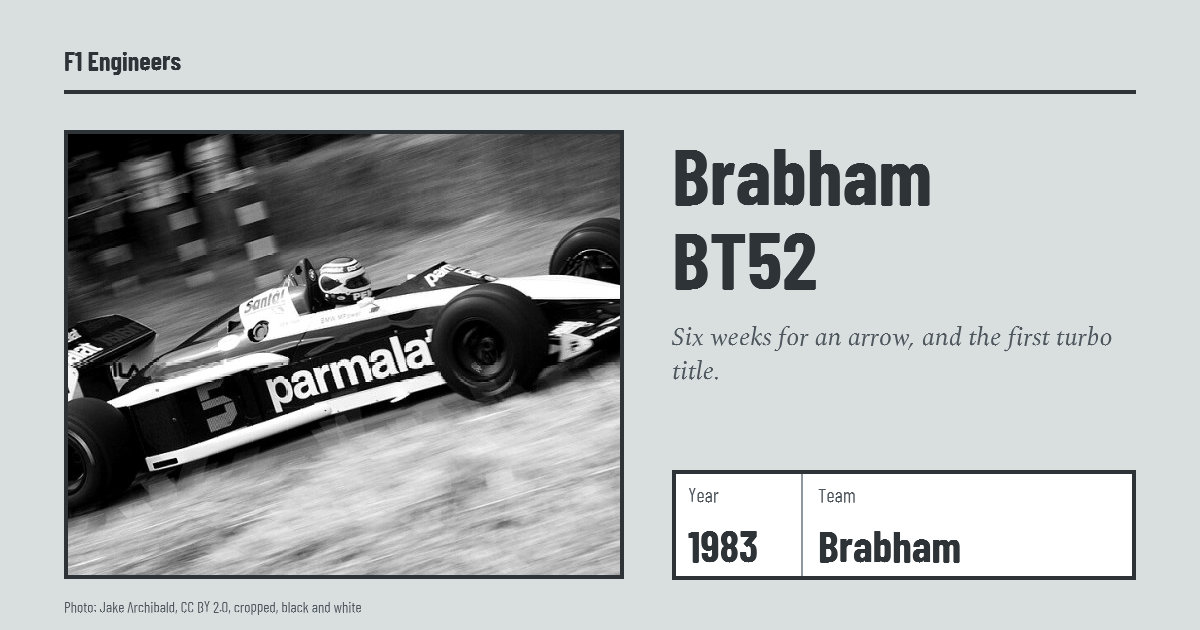
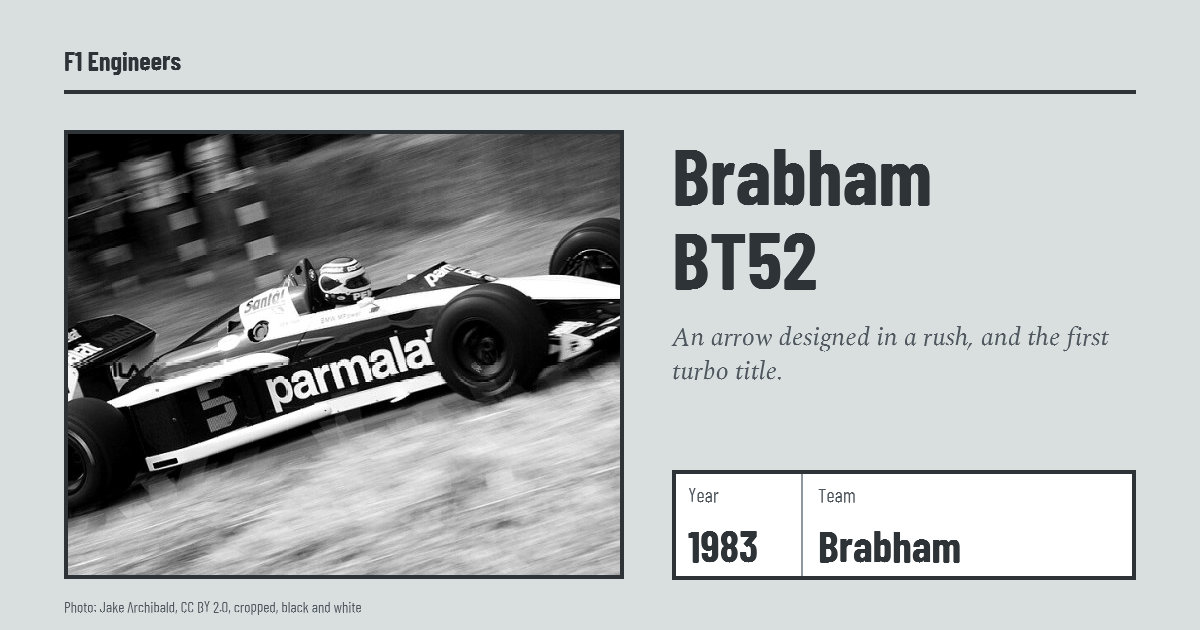
Deck : quatre categories de contexte mondial, PDF et cartes BT52 regeneres
build.js ne connaissait que 4 des 8 categories de la chronologie : npm run pdf
et pptx plantaient. Couleurs et formes reprises du site, repli gris sur une
categorie inconnue. pdf-recorder.js dessine pentagone, anneau, croix et
triangle inverse. Page 19 : 100 evenements de contexte au lieu de 60.

Changed region(s): [[0.555, 0.5127, 0.925, 0.6032]]

diff --git a/deck/build.js b/deck/build.js
@@ -740,7 +740,11 @@ const MARQUE = t("Ingénieurs de la F1", "F1 Engineers");
   const yHaut = 1.72, yBas = 6.2;
   // couleurs et formes du contexte : celles du site (assets/css/encyclopedie.css)
   const CTX = { reglement: ["8A5A00", pres.shapes.RECTANGLE], securite: ["7A3E9D", pres.shapes.ISOSCELES_TRIANGLE],
-    economie: ["2E7348", pres.shapes.OVAL], technologie: ["12707A", pres.shapes.HEXAGON] };
+    economie: ["2E7348", pres.shapes.OVAL], technologie: ["12707A", pres.shapes.HEXAGON],
+    geopolitique: ["8A3B22", pres.shapes.REGULAR_PENTAGON], "economie-mondiale": ["4B6B1F", pres.shapes.DONUT],
+    "autres-sports": ["1D5F8A", pres.shapes.CROSS], societe: ["94456F", pres.shapes.FLOWCHART_MERGE] };
+  // catégorie inconnue (ajoutée aux données sans être reportée ici) : gris et carré, avec un avertissement, plutôt qu'un plantage
+  const ctxDe = id => CTX[id] || (console.warn(`Catégorie de contexte inconnue dans build.js (CTX) : ${id}`), CTX[id] = ["8E979D", pres.shapes.RECTANGLE]);
   // rangées : un repère prend la plus proche de l'axe dont le dernier repère est à au moins deux ans
   function ranger(liste) {
     const fins = [];
@@ -794,8 +798,8 @@ const MARQUE = t("Ingénieurs de la F1", "F1 Engineers");
 
   // contexte : tous les événements (le PDF ne se filtre pas), couleur et forme de leur catégorie
   // rangées plus serrées que pour les innovations : le contexte en compte cinq, et ses étiquettes vont dessous
-  const pasCtx = 0.22;
-  const ctx = ranger(chrono.contexte || []).map(c => ({ ...c, cy: yR + hR + 0.2 + c.rang * pasCtx, couleur: CTX[c.categorie][0] }));
+  const pasCtx = 0.2;
+  const ctx = ranger(chrono.contexte || []).map(c => ({ ...c, cy: yR + hR + 0.2 + c.rang * pasCtx, couleur: ctxDe(c.categorie)[0] }));
   ctx.forEach(c => s.addShape(pres.shapes.LINE, { x: X(c.annee), y: yR + hR, w: 0, h: c.cy - yR - hR, line: { color: c.couleur, width: 0.5 } }));
   const ETIQ_CTX = EN
     ? { "championnat-1950": "First championship", "formule-3-litres": "3-litre formula", "interdiction-ailerons-hauts": "High wings banned",
@@ -806,11 +810,11 @@ const MARQUE = t("Ingénieurs de la F1", "F1 Engineers");
       "halo": "Halo", "reglement-2026": "Nouveau règlement" };
   // étiquettes sous la rangée la plus basse du contexte, au fond du cadre
   etiquettes(ctx, ETIQ_CTX, yBas - 0.25, false);
-  ctx.forEach(c => s.addShape(CTX[c.categorie][1], { x: X(c.annee) - d / 2, y: c.cy - d / 2, w: d, h: d, fill: { color: c.couleur }, line: { color: C.white, width: 0.75 } }));
+  ctx.forEach(c => s.addShape(ctxDe(c.categorie)[1], { x: X(c.annee) - d / 2, y: c.cy - d / 2, w: d, h: d, fill: { color: c.couleur }, line: { color: C.white, width: 0.75 } }));
 
   // légende
   const leg = [[pres.shapes.DIAMOND, C.A, t("innovation, Tier A", "innovation, Tier A")], [pres.shapes.DIAMOND, C.ink, t("innovation", "innovation")]]
-    .concat(chrono.categories.map(c => [CTX[c.id][1], CTX[c.id][0], c.nom]));
+    .concat(chrono.categories.map(c => [ctxDe(c.id)[1], ctxDe(c.id)[0], c.nom]));
   let xl = M;
   leg.forEach(([forme, coul, nom]) => {
     s.addShape(forme, { x: xl, y: 6.43, w: 0.14, h: 0.14, fill: { color: coul }, line: { color: coul, width: 0 } });
@@ -818,7 +822,7 @@ const MARQUE = t("Ingénieurs de la F1", "F1 Engineers");
     xl += 0.3 + nom.length * 0.062;
   });
   s.addText(t("Frise interactive : s-geffroy.github.io/f1-eng/chronologie", "Interactive timeline: s-geffroy.github.io/f1-eng/en/timeline"),
-    { x: 8.3, y: 6.36, w: W - M - 8.3, h: 0.28, fontFace: FS, fontSize: 10, italic: true, color: C.sub, align: "right" });
+    { x: 8.3, y: 6.64, w: W - M - 8.3, h: 0.28, fontFace: FS, fontSize: 10, italic: true, color: C.sub, align: "right" });
 
   const nomCat = id => chrono.categories.find(c => c.id === id).nom;
   notes(s, {

diff --git a/deck/pdf-recorder.js b/deck/pdf-recorder.js
@@ -5,7 +5,8 @@ const fs = require("fs");
 const PDFDocument = require("pdfkit");
 
 const PT = 72; // points par pouce
-const SHAPES = { RECTANGLE: "rect", ROUNDED_RECTANGLE: "roundRect", OVAL: "ellipse", LINE: "line", DIAMOND: "diamond", ISOSCELES_TRIANGLE: "triangle", HEXAGON: "hexagon" };
+const SHAPES = { RECTANGLE: "rect", ROUNDED_RECTANGLE: "roundRect", OVAL: "ellipse", LINE: "line", DIAMOND: "diamond", ISOSCELES_TRIANGLE: "triangle", HEXAGON: "hexagon",
+  REGULAR_PENTAGON: "pentagon", DONUT: "donut", CROSS: "plus", FLOWCHART_MERGE: "flowChartMerge" };
 
 function create() {
   const slides = [];
@@ -65,7 +66,7 @@ function fontName(o) {
   return st ? `${face}|${st}` : face;
 }
 
-function strokeFill(doc, o) {
+function strokeFill(doc, o, regle) {
   const fill = o.fill && o.fill.type !== "none" && o.fill.color ? "#" + o.fill.color : null;
   const ln = o.line || {};
   const stroke = ln.color && ln.width !== 0 ? "#" + ln.color : null;
@@ -73,8 +74,8 @@ function strokeFill(doc, o) {
     doc.lineWidth(ln.width || 0.75);
     if (ln.dashType === "dash") doc.dash(4 * (ln.width || 1), { space: 3 * (ln.width || 1) }); else doc.undash();
   }
-  if (fill && stroke) doc.fillAndStroke(fill, stroke);
-  else if (fill) doc.fill(fill);
+  if (fill && stroke) doc.fillAndStroke(fill, stroke, regle);
+  else if (fill) doc.fill(fill, regle);
   else if (stroke) doc.stroke(stroke);
   doc.undash();
 }
@@ -101,6 +102,19 @@ function drawShape(doc, type, o) {
     else if (type === "triangle") doc.polygon([x + w / 2, y], [x + w, y + h], [x, y + h]);
     // hexagone à pointes latérales, comme la forme « hexagon » de PowerPoint
     else if (type === "hexagon") doc.polygon([x + w / 4, y], [x + 3 * w / 4, y], [x + w, y + h / 2], [x + 3 * w / 4, y + h], [x + w / 4, y + h], [x, y + h / 2]);
+    // formes des catégories de contexte mondial, comme celles de PowerPoint et du site (_includes/repere-contexte.html)
+    else if (type === "pentagon") doc.polygon([x + w / 2, y], [x + w, y + 0.38 * h], [x + 0.81 * w, y + h], [x + 0.19 * w, y + h], [x, y + 0.38 * h]);
+    else if (type === "flowChartMerge") doc.polygon([x, y], [x + w, y], [x + w / 2, y + h]);
+    else if (type === "plus") {
+      const a = w / 4, b = h / 4;
+      doc.polygon([x + a, y], [x + w - a, y], [x + w - a, y + b], [x + w, y + b], [x + w, y + h - b], [x + w - a, y + h - b],
+        [x + w - a, y + h], [x + a, y + h], [x + a, y + h - b], [x, y + h - b], [x, y + b], [x + a, y + b]);
+    } else if (type === "donut") {
+      doc.ellipse(x + w / 2, y + h / 2, w / 2, h / 2).ellipse(x + w / 2, y + h / 2, w / 4, h / 4);
+      strokeFill(doc, o, "even-odd");
+      doc.restore();
+      return;
+    }
     else doc.rect(x, y, w, h);
     strokeFill(doc, o);
   }
